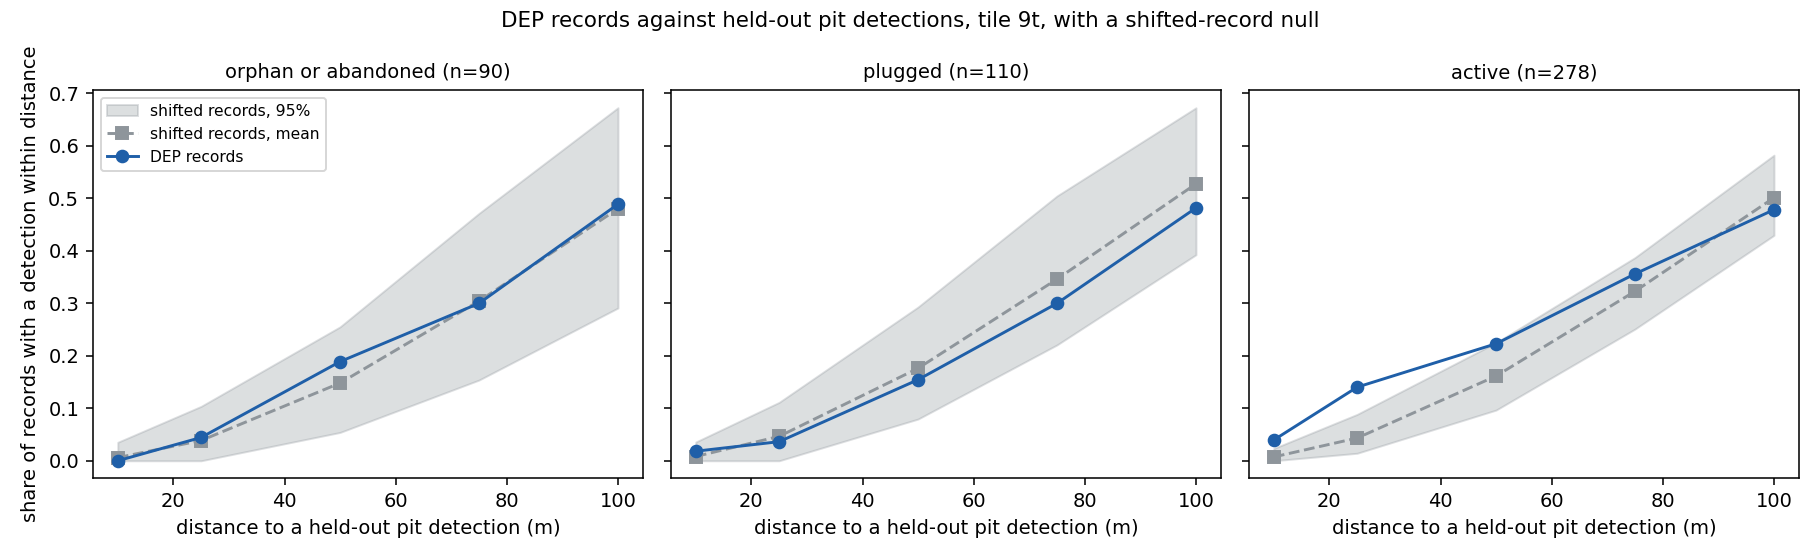
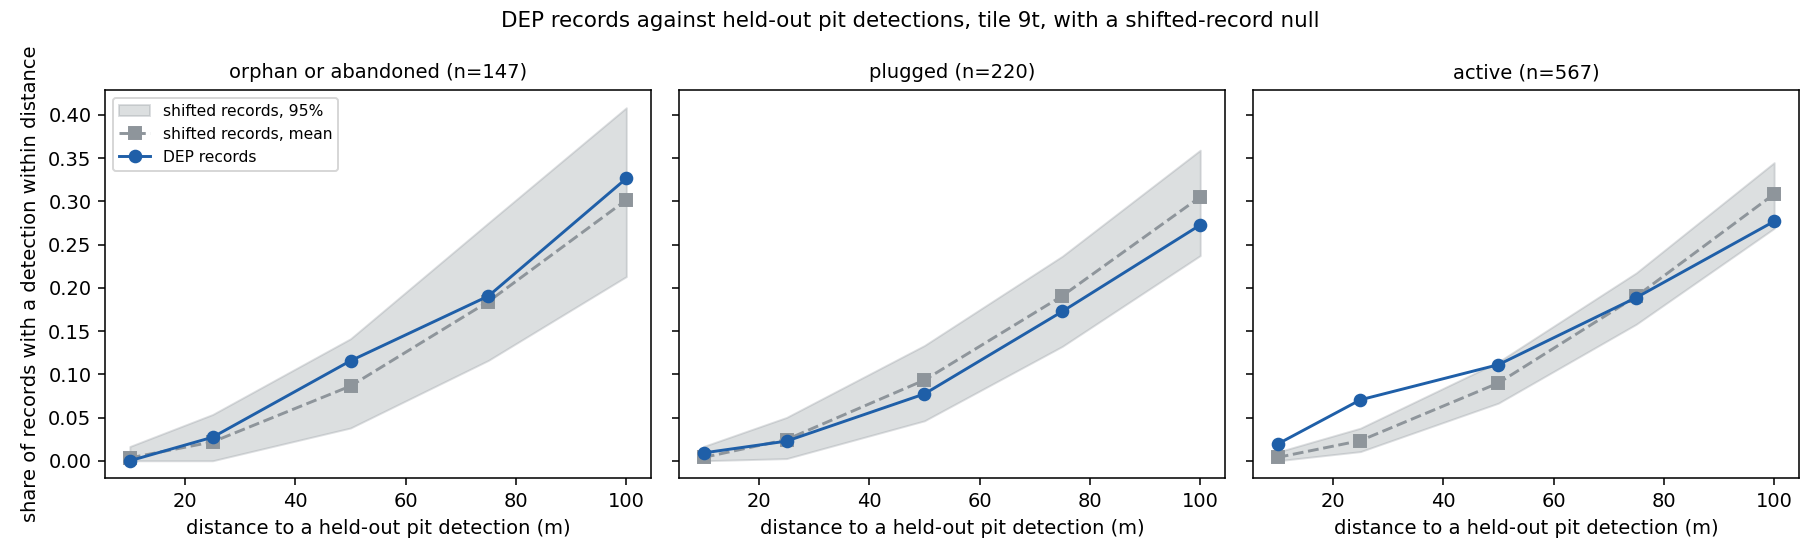
records: association coverage repaired to scored footprint, gameplan revised after second outside review

diff --git a/notebooks/wellsight_v2/s5_eval/_record_assoc_pits_9t.py b/notebooks/wellsight_v2/s5_eval/_record_assoc_pits_9t.py
@@ -11,8 +11,10 @@ Inputs.
   - Detections: out-of-fold held-out pit detections at cutoff 0.50 (layers matched + undecided of pit_candidates_undecided_thr0p50_9t.gpkg),
     one per pit (dup_on_pit == 1 dropped). Pad candidates: pad_candidates_filtered_heldout_9t.shp.
   - Records: PA DEP Venango export (venango_wells_all.gpkg, April 2026), wells inside the tile, split by WELL_STATU.
-Coverage. Cross-validation scores only part of the tile. Records are kept only if they sit in a 250 m cell that holds at least one detection,
-  and shifted records are kept only if they land in such a cell.
+Coverage (revised 2026-11-04 after outside review). Eligibility is the scored footprint, the 115 pit-bearing 375 m CV blocks of
+  pit_blocks_9t.gpkg, including blocks where the detector found nothing. It does not depend on model output. Observed and shifted records
+  use the same rule (inside the footprint and the tile). The whole record set is translated as one, which keeps its clustering.
+  Primary radius for pits 50 m and for pads inside the polygon. Other radii are sensitivity only.
 Pit level. One-to-one assignment (Hungarian) on distance with a gate. Pad level. Many records may share a pad, distance is to the polygon.
 Null. Each record set is translated by a vector of length 200 to 500 m in a random direction, 300 times.
 
@@ -59,12 +61,22 @@ def load():
     return pits, pads, w
 
 
-def cells(xy):
-    return set(map(tuple, np.floor((xy - np.array(BB[:2])) / CELL).astype(int)))
+def footprint():
+    b = gpd.read_file(ROOT / "data/9t/derived/05/pit_blocks_9t.gpkg", layer="blocks")
+    return b[b.n_pits > 0]
+
+
+def cells(blocks):
+    """Set of (ix, iy) block indices that were scored."""
+    return set(zip(blocks.ix.astype(int), blocks.iy.astype(int)))
+
+
+BLOCK = 375.0
 
 
 def inside(xy, cov):
-    return np.array([tuple(c) in cov for c in np.floor((xy - np.array(BB[:2])) / CELL).astype(int)])
+    ij = np.floor((xy - np.array(BB[:2])) / BLOCK).astype(int)
+    return np.array([tuple(c) in cov for c in ij])
 
 
 def pit_rates(rec, det):
@@ -86,13 +98,12 @@ def one_to_one(rec, det):
 def main():
     pits, pads, w = load()
     rng = np.random.default_rng(SEED)
-    cov_pit = cells(pits)
-    padc = np.c_[pads.geometry.centroid.x.values, pads.geometry.centroid.y.values]
-    cov_pad = cells(padc)
+    fp = footprint()
+    cov_pit = cov_pad = cells(fp)
     padgeom = pads.geometry.values
     from shapely import STRtree
     ptree = STRtree(padgeom)
-    print(f"detections {len(pits)} pit, {len(pads)} pad polygons; covered cells pit {len(cov_pit)} pad {len(cov_pad)}")
+    print(f"detections {len(pits)} pit, {len(pads)} pad polygons; scored blocks {len(cov_pit)}")
 
     rows, prop, summ = [], [], {}
     for gname, stats in GROUPS.items():

diff --git a/docs/iterations/expansion_gameplan_feasibility.md b/docs/iterations/expansion_gameplan_feasibility.md
@@ -4,6 +4,27 @@
 **Status:** Plan. Written to be handed off. The assistant account that wrote it ends within days, so every task below names its inputs, steps, outputs and acceptance test.
 **Companion:** `docs/iterations/expansion_options_methods.md` holds the method behind each item. This file says whether each item can be done, by whom, in what order, and how to stop.
 
+## Revisions after the second outside review (2026-11-04)
+These override the matching text below.
+- **A9 moves first.** A7 depends on the pre-registration template.
+- **A2 repaired and rerun.** Eligibility is the scored footprint including zero-detection blocks, identical for observed and shifted records, whole-set translation. Primary radius fixed before looking (pits 50 m, pads inside). Other radii are sensitivity only. Result unchanged (see `record_assoc_pits_9t.md`).
+- **Audit set is not untouched by default.** Before A1 calls any block untouched, list every model, threshold and negative-mining step that used it. Exclude audit blocks from later training, calibration, mining and selection, including models that supply context features. The strongest final test is a new area.
+- **A1 review package.** The existing builder is a QGIS correction package with default "keep". The blinded multi-class contact sheet is new work. Budget 2 hours per 20 candidates per reviewer, not 2 hours for 150 with two reviewers.
+- **A3.** Add sham edits, realistic terrain backgrounds, derivatives recomputed from the edited DEM, and all-pit sampling beside the detected-only subset. Drop the half-score rule. Report paired changes in score and rank.
+- **A4.** Prerequisite is an inventory of upstream checkpoints and splits. Missing road OOF models mean training, not just raster generation. Every upstream model must respect the outer fold exclusion.
+- **A5 is blocked.** No flight dates are established. Plugged between 2006 and 2019 does not put plugging between the flights. Bound acquisition dates first, drop ambiguous wells, and treat the rest as exploratory. Plugging may leave no surface change.
+- **A6.** The 1,316 count is Venango. Check overlap with inference coverage before power. Match groups on location, status and acquisition eligibility. Separate new discoveries from reclassifications.
+- **A7.** Pre-register before viewing outputs. Keep adaptation and final test areas separate. Hash checkpoints and inputs, not only the commit.
+- **A8.** Report usable here, unusable here or inconclusive. One frame is not a verdict. Test several dates and known positives, with independent check points.
+- **B3.** Platt scaling is monotonic. Report calibration separately. It cannot change top-K recall.
+- **B7.** Replace the density surface with a sensitivity and identifiability analysis until well-level precision and detection probability are supported.
+- **Training reproducibility is a dependency.** Both CV scripts (`_pit_unet_cv5.py`, `_pad_unet_cv5.py`) rebuild splits at run time. Save explicit split manifests and check spatial separation before any retraining.
+- **Gates.** Recall gap. Use a confidence interval for the difference and a prespecified non-inferiority margin, since overlapping intervals are not a test. Historical labels. Judge by independent interpretability and positional accuracy, since a low lidar score may be model failure. Confusers. Require confuser reduction and acceptable recall loss, since one failed run does not retire the idea. Field sample. Forty sites cannot give plus or minus 15 points in each of five score bins, so size the primary estimate first, then weight, cluster and allow for inaccessible sites.
+- **Schedule.** A0 to A9 total about 49 hours, over six eight-hour days before debugging. The three-day calendar is optimistic. Independent items (historical coverage checks, instrument planning) need not wait for label review.
+- **Resources.** Do not plan a county at 20 GB. Estimate from real tile sizes with decompressed clouds, derivative stacks and checkpoints. Pin the interpreter and dependencies instead of relying on plain `python`.
+- **Item notes.** 3.3 needs sham edits and real low-slope pits. 3.4 keeps an unchanged zero-shot baseline. 4.7 needs the provenance of the 63 sites and native against thinned comparisons. 5.2 treats historical absence as censored. 5.3 keeps existence, hazard and exposure separate. 7.2 needs a random audit sample that is not tuned on. 7.5 sizes the primary estimate and uses independent searches to estimate recall.
+
+
 ## 0. How to use this file
 
 1. Read section 1 for what the machine and the data can do.

diff --git a/docs/iterations/record_assoc_pits_9t.md b/docs/iterations/record_assoc_pits_9t.md
@@ -46,6 +46,21 @@ Files in `data/9t/results/records/`. `record_assoc_rates_9t.csv`, `record_pit_as
 - A detection centroid is not a borehole. The proposals file lists candidate pairs. It is not a corrected coordinate set.
 - Held-out detections cover only the scored blocks, and there are only 204 of them. A recorded orphan well with no detection may be a missed pit, a well with no pit, or a record in the wrong place.
 
+## Revision 2026-11-04 (coverage repaired after outside review)
+The first run kept only records in 250 m cells that held a detection. That conditions the sample on model output and drops scored places where the detector found nothing. The script now uses the scored footprint, the 115 pit-bearing 375 m blocks of `data/9t/derived/05/pit_blocks_9t.gpkg`. Observed and shifted records follow the same rule (inside the footprint and the tile). The whole record set is translated as one, which keeps its clustering. Primary radii are fixed in advance. Pits 50 m and pads inside the polygon. Other radii are sensitivity only. The tables above are the first run and are superseded by the numbers below.
+
+Pit level, repaired. Rate against null mean (95% null interval).
+
+| Records | n | 25 m | 50 m (primary) | 100 m |
+|---|---:|---|---|---|
+| Orphan or abandoned | 147 | 0.027 vs 0.022 (0 to 0.054) | 0.116 vs 0.086 (0.038 to 0.141) | 0.327 vs 0.302 (0.213 to 0.408) |
+| Plugged | 220 | 0.023 vs 0.025 (0.003 to 0.050) | 0.077 vs 0.093 (0.046 to 0.133) | 0.273 vs 0.305 (0.237 to 0.359) |
+| Active | 567 | **0.071 vs 0.023 (0.011 to 0.038)** | 0.111 vs 0.090 (0.067 to 0.114) | 0.277 vs 0.309 (0.269 to 0.345) |
+
+Pad level, repaired, inside polygon (primary). Orphan or abandoned 0.041 vs 0.033 (0.007 to 0.070). Plugged 0.050 vs 0.022 (0 to 0.050), at the edge. Active **0.058 vs 0.021 (0.008 to 0.035)**.
+
+The conclusion is unchanged. Orphan and abandoned records are inside the null at the primary radii. Active records exceed chance at small pit radii and inside pad polygons. The larger denominators (147, 220, 567) are records in scored blocks, including blocks with no detection. This is still a proximity test with no independent coordinates. A null result on 9t stops automatic snapping. It does not stop later association work.
+
 ## Not done
 - Association against the full annotated pits and pads, which would raise power. The annotations are lidar-derived, so the result would measure agreement of records with drawn features.
 - Independent coordinates (GNSS points, NETL sites) to test whether any proposal improves a position.

diff --git a/docs/analysis_log.md b/docs/analysis_log.md
@@ -5,6 +5,11 @@ result. Newest entries at the top. Per `Claude.md` reporting rule.
 
 ---
 
+## 2026-11-04 (later) record association repaired, gameplan revised after second outside review
+- Script `notebooks/wellsight_v2/s5_eval/_record_assoc_pits_9t.py` now uses the scored footprint (115 pit-bearing blocks, including zero-detection blocks) for observed and shifted records. Primary radii fixed. Result unchanged. Orphan or abandoned pit 50 m 0.116 vs null 0.086 (to 0.141). Active pit 25 m 0.071 vs 0.023 (to 0.038).
+- Gameplan `docs/iterations/expansion_gameplan_feasibility.md` carries a revision section. A5 blocked, A9 first, audit-set history required, gates rewritten, schedule qualified.
+- Open dependency. Both CV trainers rebuild splits at run time. Save split manifests before retraining.
+
 ## 2026-11-04 (feasibility and gameplan for every expansion item) -- planning, one probe
 
 - **Doc.** `docs/iterations/expansion_gameplan_feasibility.md`. Feasibility class, blocker, hours and verdict for all 36 items. Phase A to E gameplan, decision gates, handoff checklist, risk register.
